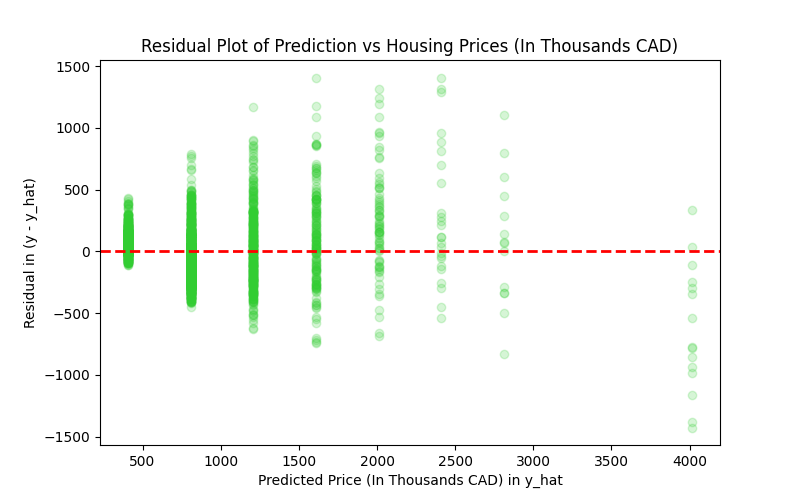
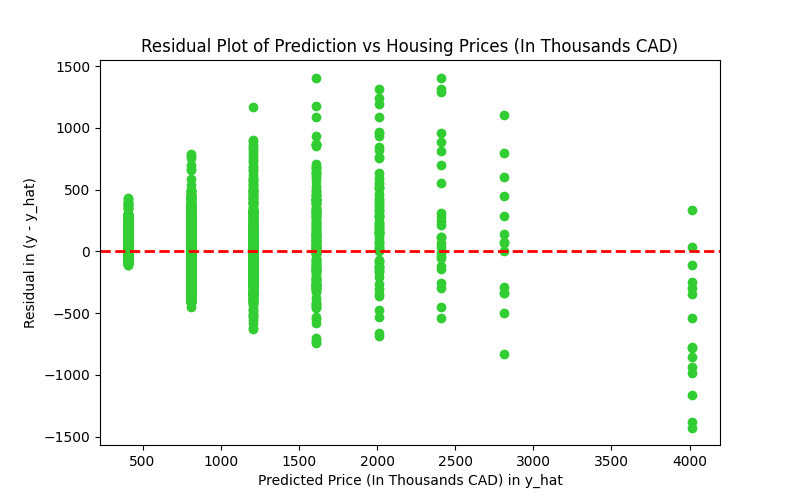
added more changes

diff --git a/ResidualPlot.py b/ResidualPlot.py
@@ -29,7 +29,7 @@ residuals = y - y_hat
 
 # Plotting the residuals
 plt.figure(figsize=(8, 5))
-plt.scatter(y_hat, residuals, color='limegreen', alpha=0.2)
+plt.scatter(y_hat, residuals, color='limegreen')
 plt.axhline(y=0, color='red', linestyle='--', linewidth=2)
 plt.xlabel("Predicted Price (In Thousands CAD) in y_hat")
 plt.ylabel("Residual in (y - y_hat)")

diff --git a/Documentation.md b/Documentation.md
@@ -99,6 +99,12 @@ The marginal distribution also provide insights into the individual variables. T
 In order to be able to predict the values, we decicded to use the linear regression model. The linear regression model we found is:  price = 0.80 * size + 208.81. 
 This suggests that for every square foot of size, the price increases by CAD 800. The R^2 error is given as 0.77 suggesting that 77% of the price variance can be explained by the size of the house. 
 
+<figure>
+    <img src="./residual_plot.png"/>
+    <figcaption><strong>Fig. 1:</strong> Residual Plot for Prediction vs Housing Prices (In Thousands CAD).</figcaption>
+</figure>
+From the underlying residual plot, although the variance (vertical spread) increases as the fitted values (predicted values) increase, there appears to be no convex or concave curve shape in this plot. This indicates the points are (sort of) randomly spread out, and that a linear regression model does a good job of fitting the data.
+With that being said, a possible reason to why the variance (vertical spread) increases is because of the way **the dataset was given to us**: size of housing was in intervals. Thus, we decided to pick a size from the interval, which is by the median of each interval.
 
 ## 6. Results ❗
  
